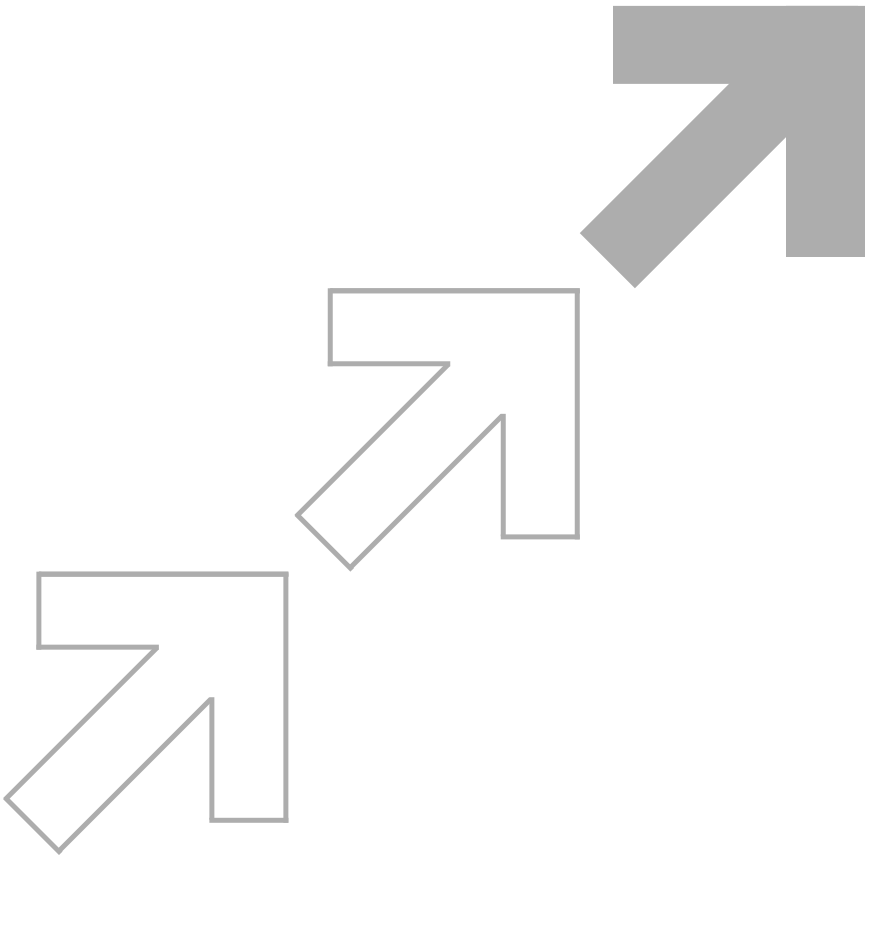
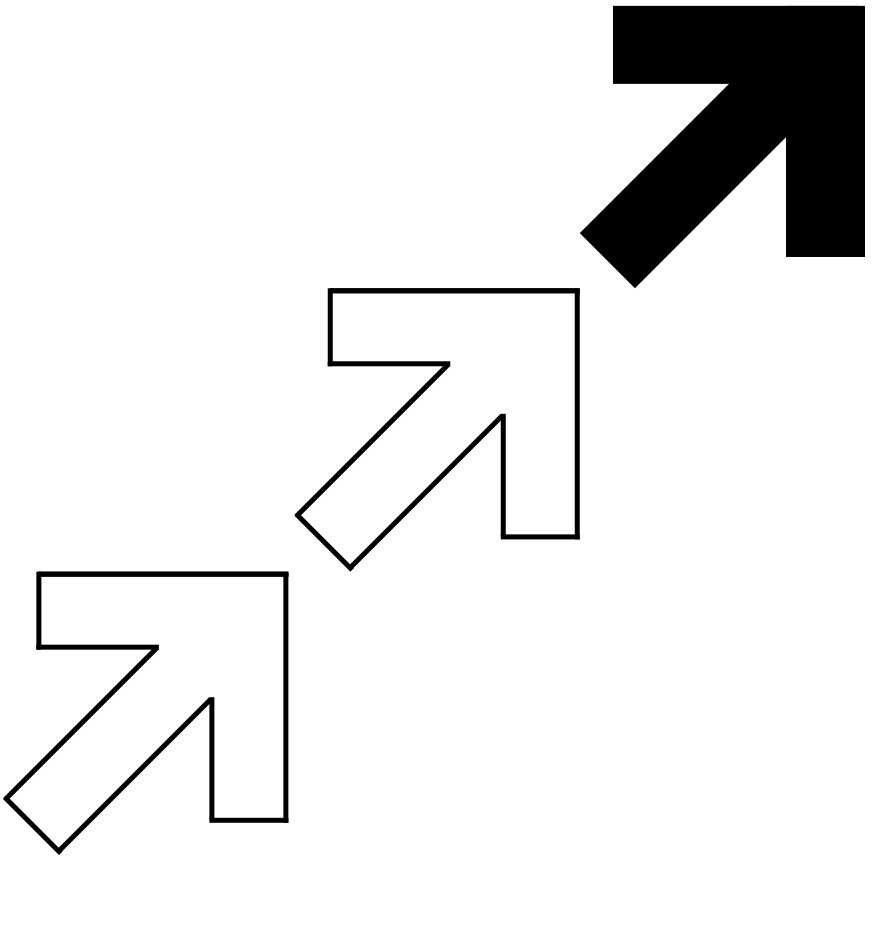
👕 changed graphic colors and admin home styling 👕

diff --git a/src/pages/admin/index.tsx b/src/pages/admin/index.tsx
@@ -4,7 +4,9 @@ import { api } from "~/utils/api";
 import Image from "next/image";
 import Link from "next/link";
 import projectLogo from "@public/Admin/projects.png";
-import adminLogo from "@public/Admin/admin-title.png";
+import anonymous from "@public/Admin/admin-green.png";
+import adminTitle from "@public/Admin/admin-vert-title.png";
+import diagonal from "@public/Graphics/diagonal-1.png"
 import { useState } from "react";
 import CrossIcon from "~/components/Icons/cross";
 import SkullCrossBones from "~/components/Icons/skullCrossBones";
@@ -30,17 +32,36 @@ export default function Admin() {
     return <Custom404 />;
   }
 
-
-
-// TODO change styling to match off white retro futur theme 
-// get rid of pixel title 
-// add vertical bars going down right side below image  
-// maybe add XXX svg or XX face next to title make it cool 
-// restyle later tho end game once live prob
+  // TODO change styling to match off white retro futur theme
+  // get rid of pixel title
+  // add vertical bars going down right side below image
+  // maybe add XXX svg or XX face next to title make it cool
+  // restyle later tho end game once live prob
 
   return (
     <>
-      <Image src={adminLogo} alt="admin" className="w-1/4" />
+      <div className="relative h-10 w-1/3">
+        <Image
+          src={adminTitle}
+          alt="admin title"
+          className="png-light-gray absolute -left-40"
+        />
+      </div>
+
+      <div className="relative w-full">
+        <Image
+          src={anonymous}
+          alt="admin logo"
+          className="absolute left-20 top-0 w-44 "
+        />
+        <Image
+          src={diagonal}
+          alt="admin logo"
+          className="absolute left-20 top-44 w-44 "
+
+        />
+      </div>
+
       <div className="relative mb-10 flex w-full">
         <Link href="/admin/projects" aria-label="admin projects">
           <Image

diff --git a/src/components/Navbar/index.tsx b/src/components/Navbar/index.tsx
@@ -8,9 +8,7 @@ import MenuArrow from "../Icons/menuArrow";
 import ModalDialog from "../Modal";
 import ContactForm from "../ContactForm";
 import { useSession } from "next-auth/react";
-import hacktimeLogo from "@public/Homepage/logo.png";
-import smileBlur from "@public/Graphics/smile-blur.png"
-
+import smileBlur from "@public/Graphics/smile-blur.png";
 
 export default function NavBar() {
   const menuRef = useRef<HTMLDivElement | null>(null);
@@ -105,26 +103,13 @@ export default function NavBar() {
       <div className="relative flex gap-5 ">
         {isAdmin && (
           <Link href="/admin" aria-label="Home">
-            {/* <motion.button
-              whileHover={{ scale: 1.1 }}
-              whileTap={{ scale: 0.95 }}
-              className=" bg-lightGray flex w-12 items-center justify-center overflow-hidden rounded-full p-2"
-            >
-              <Image
-                className="scale-150 transform object-cover"
-                src={hacktimeLogo}
-                alt="hacktime"
-                width={200}
-                height={200}
-              />
-            </motion.button> */}
             <motion.button
               whileHover={{ scale: 1.1 }}
               whileTap={{ scale: 0.95 }}
               className="flex w-12 items-center justify-center overflow-hidden rounded-full p-2"
             >
               <Image
-                className=" scale-150 object-cover png-green-500"
+                className=" png-green-500 scale-150 object-cover"
                 src={smileBlur}
                 alt="hacktime"
                 width={200}

diff --git a/src/pages/index.tsx b/src/pages/index.tsx
@@ -5,7 +5,7 @@ import { motion, useAnimation } from "framer-motion";
 import temporary from "@public/Homepage/_f4b1680f-f1c9-478f-b70e-bacd25904b37.jpg";
 import Image from "next/image";
 import DownArrowIcon from "~/components/Icons/downArrow";
-import hacktimeStacked from "@public/Graphics/hacktime-stacked-offset.png";
+import hacktimeStacked from "@public/Homepage/hacktime-stacked-offset.png";
 import stripedRectLong from "@public/Graphics/diagonal-rect-long.png";
 import smileBlur from "@public/Graphics/smile-blur.png";
 import smileX from "@public/Graphics/Smile-xx.png";
@@ -53,6 +53,11 @@ export default function Home() {
     exit: { opacity: 1, y: -20, rotate: 5 },
   };
 
+  const scrollToHeight = () => {
+    // Adjust the value of 1000 to the desired scroll height
+    window.scrollTo({ top: 1000, behavior: "smooth" });
+  };
+
   // TODO Next.js TRPC Prisma Cloud storage talk about all these or add them to some cool graphics
   // TODO better search results optimized for web crawling
   // TODO fast websites
@@ -90,11 +95,12 @@ export default function Home() {
           <div>01</div>
         </div>
         <motion.div
-          className="flex justify-center gap-5"
+          className="flex cursor-pointer justify-center gap-5"
           initial="initial"
           animate="bobble"
           exit="exit"
           variants={bounceVariants}
+          onClick={scrollToHeight}
         >
           <div className="text-2xl">scroll down</div>
           <DownArrowIcon />

diff --git a/src/pages/contact/index.tsx b/src/pages/contact/index.tsx
@@ -1,13 +1,13 @@
 import Image from "next/image";
-import contactVert from "@public/Graphics/contact-vert.png";
-import grayLine from "@public/Graphics/gray-line.png";
-import contactContact from "@public/Graphics/contact-contact.png";
 import GitHubIcon from "~/components/Icons/github";
 import LinkedInIcon from "~/components/Icons/linkedIn";
 import ModalDialog from "~/components/Modal";
 import ContactForm from "~/components/ContactForm";
 import { useState } from "react";
 import { motion } from "framer-motion";
+import contactVert from "@public/Contact/contact-vert.png";
+import contactContact from "@public/Contact/contact-contact.png";
+import grayLine from "@public/Graphics/gray-line.png";
 import stripedButtonBlack from "@public/Graphics/striped-label-black.png";
 import stripedButtonGray from "@public/Graphics/striped-label.png";
 

diff --git a/src/styles/globals.css b/src/styles/globals.css
@@ -10,6 +10,15 @@
   filter: invert(48%) sepia(5%) saturate(3277%) hue-rotate(72deg)
     brightness(116%) contrast(126%);
 }
+.png-light-gray {
+  filter: invert(80%) sepia(6%) saturate(10%) hue-rotate(341deg) brightness(88%)
+    contrast(85%);
+}
+
+.png-white {
+  filter: invert(100%) sepia(6%) saturate(7476%) hue-rotate(215deg)
+    brightness(110%) contrast(105%);
+}
 
 /* -----     home     ----- */
 
